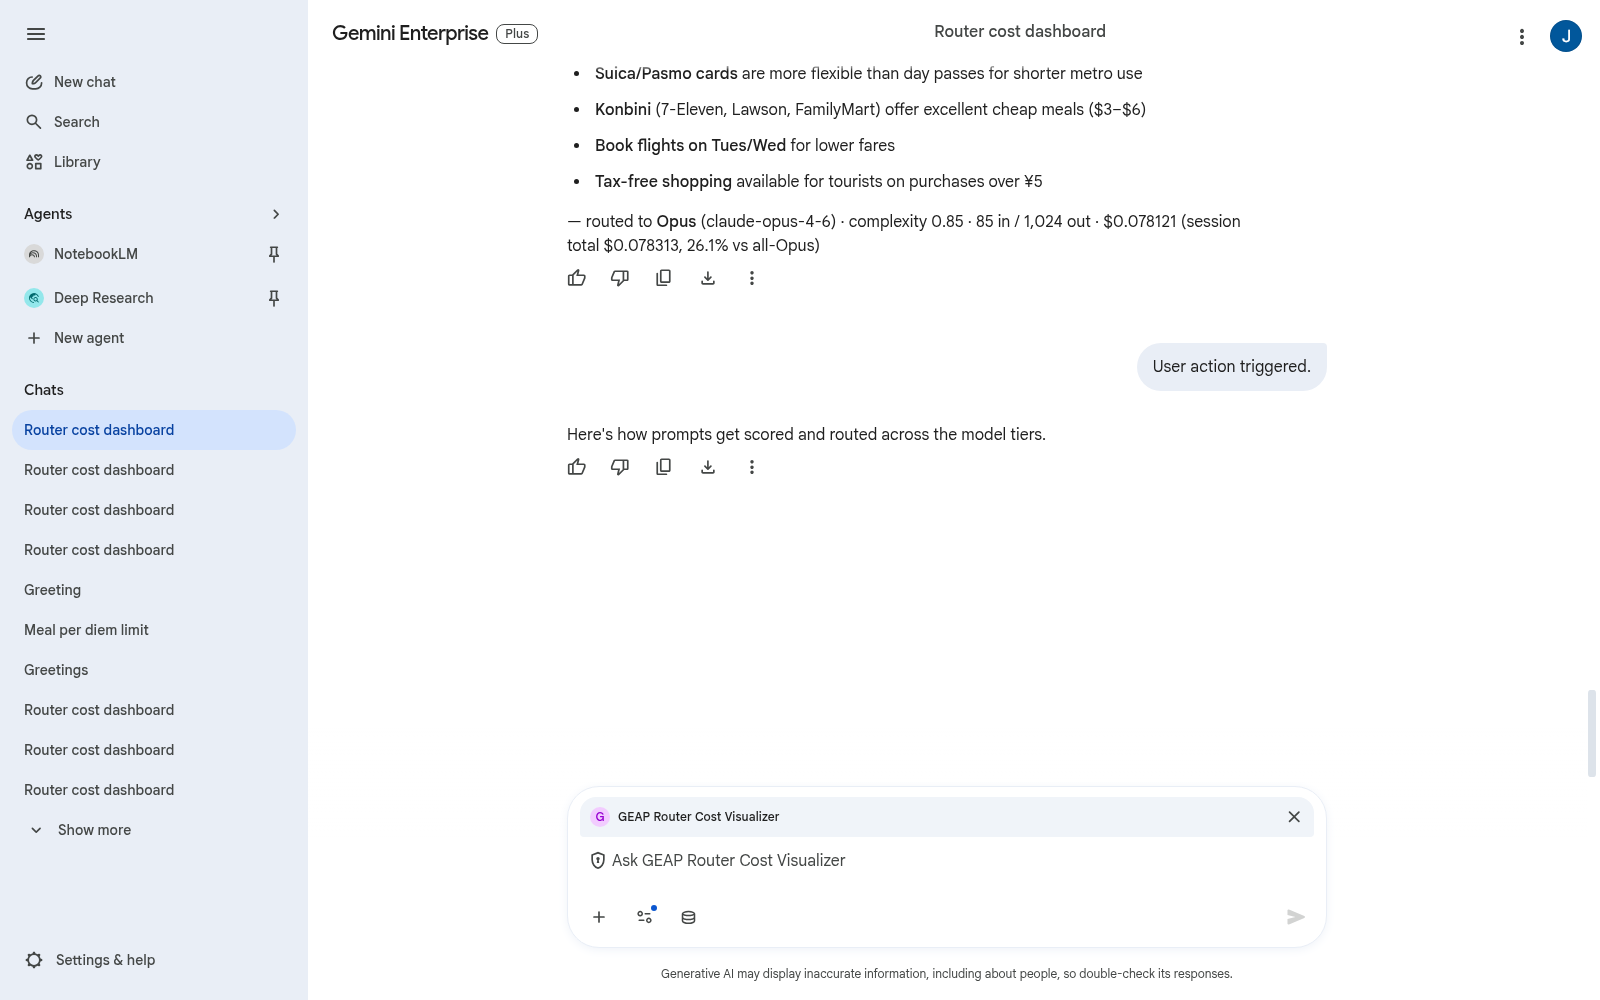
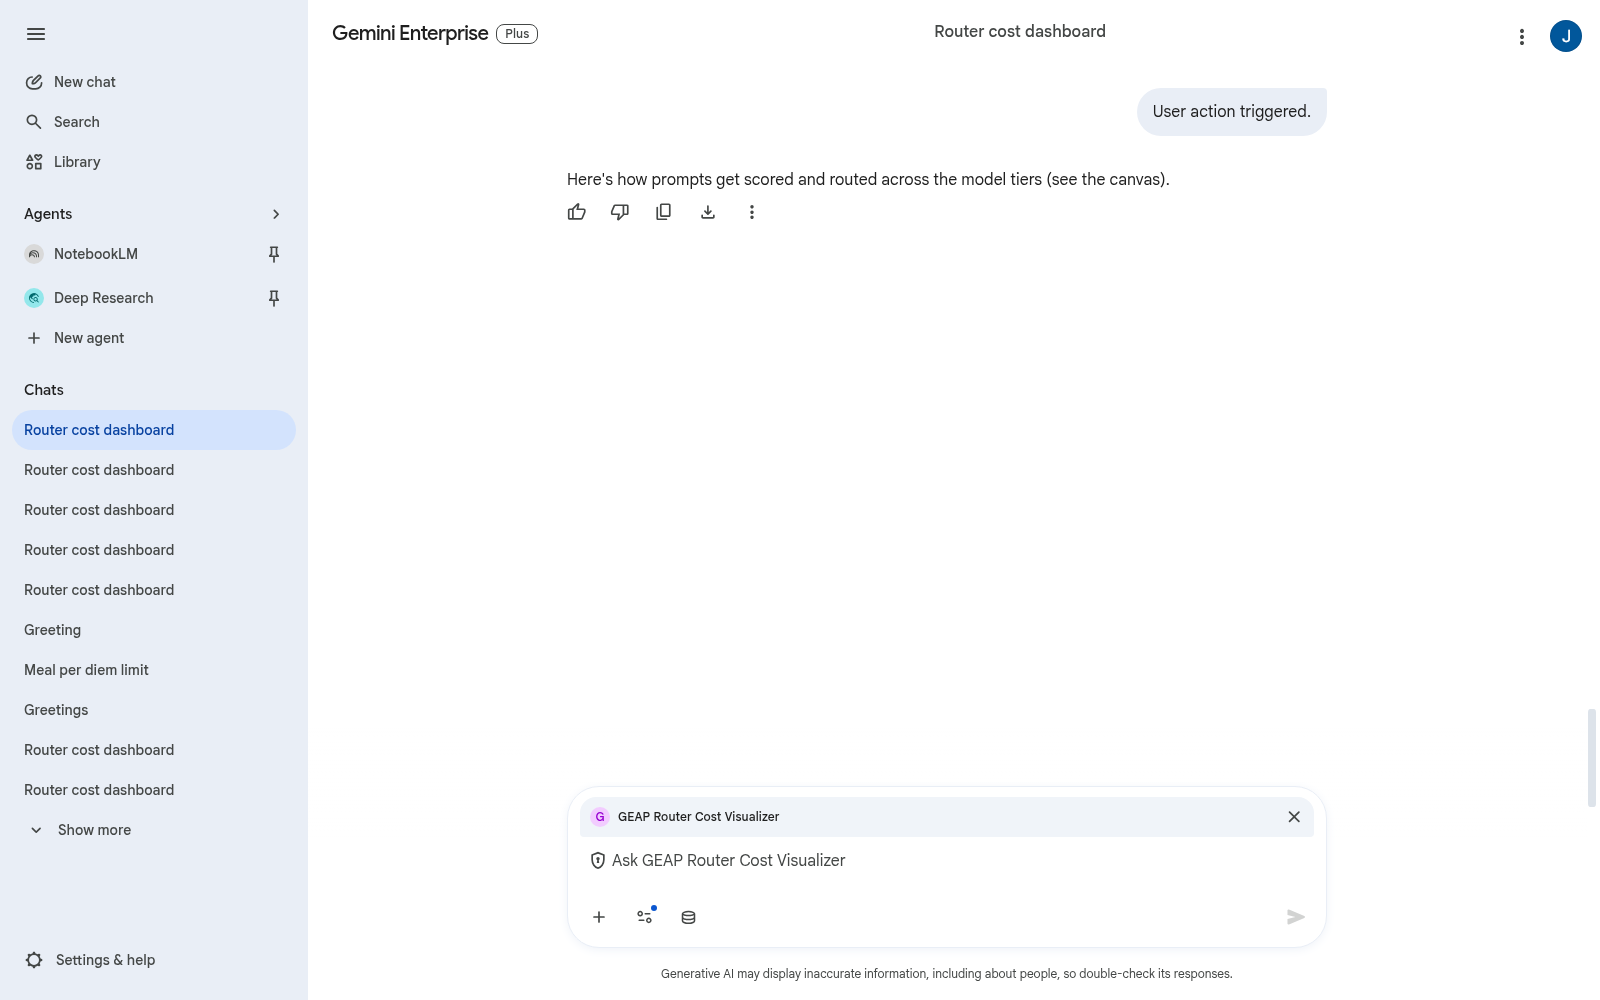
fix(router-ui): add a WebFrame canvas-trigger so the Image docks in the side panel
Observed live: an Image alone (like native components) renders inline at the top of the chat. The
earlier version that docked in the right-side canvas also carried a WebFrameSrcdoc — its presence is
what makes GE treat the surface as 'Interactive content' and dock it in the canvas panel. Add a tiny
(1px, blank) WebFrameSrcdoc alongside the Image on each screen to trigger side-canvas docking; GE
paints the WebFrame blank/zero-height, so the Image is what shows in the panel.

diff --git a/app/ui_builder.py b/app/ui_builder.py
@@ -37,6 +37,15 @@ class _Screen:
             "url": {"literalString": url}, "altText": {"literalString": alt}, "fit": "contain"}}})
         return cid
 
+    def canvas_trigger(self) -> str:
+        """A tiny WebFrameSrcdoc whose presence makes GE dock this surface in the side canvas panel
+        (rather than rendering inline). GE paints the WebFrame itself blank/zero-height, so it adds no
+        visible content — the Image is what shows in the panel."""
+        cid = self._id("wf")
+        self.components.append({"id": cid, "component": {"WebFrameSrcdoc": {
+            "htmlContent": {"literalString": "<!doctype html><title>panel</title>"}, "height": 1}}})
+        return cid
+
     def button(self, label: str, action: str, primary: bool = False) -> str:
         eid = self._id("btn")
         tid = f"txt_{eid}"
@@ -61,7 +70,8 @@ def build_dashboard_screen(acc: Accrual, image_url: str) -> List[dict]:
     img = sc.image(image_url, "Router cost accrual dashboard: Smart Router vs all-Opus")
     b1 = sc.button("🔬 Routing logic & scoring", "view_routing", primary=True)
     b2 = sc.button("↺ Reset session", "reset", primary=False)
-    return sc.build([img, b1, b2], DASHBOARD_SURFACE)
+    wf = sc.canvas_trigger()
+    return sc.build([img, b1, b2, wf], DASHBOARD_SURFACE)
 
 
 def build_routing_logic_screen(acc: Accrual, image_url: str) -> List[dict]:
@@ -70,4 +80,5 @@ def build_routing_logic_screen(acc: Accrual, image_url: str) -> List[dict]:
     img = sc.image(image_url, "Routing logic and scoring: score to model tier and token rates")
     b1 = sc.button("📊 Cost dashboard", "view_dashboard", primary=True)
     b2 = sc.button("↺ Reset session", "reset", primary=False)
-    return sc.build([img, b1, b2], ROUTING_SURFACE)
+    wf = sc.canvas_trigger()
+    return sc.build([img, b1, b2, wf], ROUTING_SURFACE)
